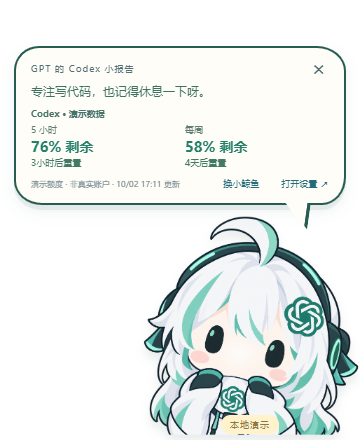
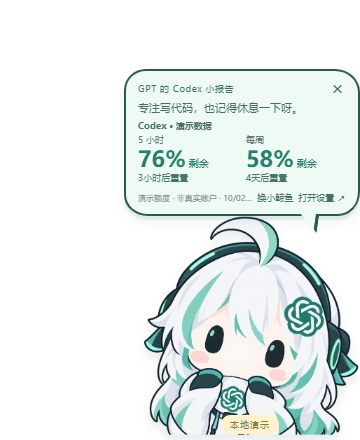
style: compact pet balloons and enlarge quota figures

Changed region(s): [[0.0306, 0.1182, 1.0, 0.5318], [0.0611, 0.0886, 0.9167, 0.1182]]

diff --git a/src/renderer/styles.css b/src/renderer/styles.css
@@ -1,11 +1,11 @@
 :root{font-family:"Microsoft YaHei UI","Microsoft YaHei","Segoe UI",sans-serif;color:#244653;font-synthesis:none;font-weight:400;--blue:#147888;--line:#e1e9e6;--muted:#758c91}
 *{box-sizing:border-box}body{margin:0}button,input,textarea{font:inherit}button,a,input,textarea{touch-action:manipulation}button{cursor:pointer}button:disabled{cursor:wait;opacity:.55}button:focus-visible,a:focus-visible,input:focus-visible,textarea:focus-visible{outline:3px solid #51afc0;outline-offset:3px}button{transition:background .15s,transform .15s}input,textarea{width:100%;border:1px solid #d8e4e1;border-radius:10px;background:#fffefa;padding:12px 14px;color:#244653}input[type=range]{padding:0;accent-color:var(--blue)}input[type=checkbox]{width:19px;height:19px;accent-color:var(--blue)}textarea{resize:vertical;min-height:92px}h1,h2,h3,p{margin:0}h2{font-size:19px;letter-spacing:.5px}h3{font-size:15px}p{line-height:1.8}a{color:inherit}small{display:block}button{border:0}.sr-only{position:absolute;width:1px;height:1px;padding:0;margin:-1px;overflow:hidden;clip:rect(0,0,0,0);white-space:nowrap;border:0}
 .settings-view{background:#f6f5ef;overflow:auto}.settings-shell{min-height:100vh}.sidebar{position:fixed;left:0;top:0;bottom:0;width:214px;background:#e9f0eb;border-right:1px solid #dae5df;padding:34px 23px;display:flex;flex-direction:column}.brand{text-decoration:none;display:flex;align-items:center;gap:10px;font-size:17px;font-weight:700}.brand-mark{background:#186e7c;color:#fff8dd;border-radius:15px;width:41px;height:41px;display:grid;place-items:center;font-size:30px;font-weight:400}.brand small{font-size:10px;font-weight:400;margin-top:6px;letter-spacing:1px;color:#7a9294}.sidebar nav{display:grid;gap:10px;margin-top:53px}.sidebar nav a{text-decoration:none;padding:13px 14px;border-radius:12px;font-size:20px;color:#47707a;display:flex;gap:12px;align-items:center}.sidebar nav a span{font-size:13px}.sidebar nav a:hover,.sidebar nav a:focus-visible{background:#dce9e4}.sidebar-footer{margin-top:auto;color:#6b878d;font-size:11px;line-height:2}.sidebar-footer small{font-size:9px}.settings-main{max-width:1120px;margin-left:214px;padding:44px 48px 26px}.eyebrow{font-size:9px;letter-spacing:2.7px;color:#6a9096;font-weight:600;margin-bottom:11px}header h1{font-size:29px;font-weight:650;letter-spacing:1px}header h1 span{color:#d9b96e;margin-left:12px;font-size:23px}header p{font-size:12px;color:var(--muted);margin-top:11px}header{margin-bottom:30px}.section{scroll-margin-top:24px;margin-bottom:30px}.section-heading{display:flex;align-items:center;justify-content:space-between;gap:12px;margin-bottom:17px}.section-note{font-size:11px;color:#829598}.status-chip{padding:6px 11px;background:#e3eee4;color:#488167;border-radius:20px;font-size:11px}.status-chip[data-status=error]{background:#f9e6db;color:#a66245}.status-chip[data-status=loading]{background:#e0edf1;color:#397486}.status-chip[data-status=unconfigured]{background:#ebeae2;color:#868674}.balance-grid{display:grid;grid-template-columns:1.45fr 1fr;gap:18px}.balance-card{background:#196e7b;color:#f8fcf5;padding:25px 27px 20px;border-radius:19px;position:relative;overflow:hidden;box-shadow:0 9px 24px #16677312}.balance-card:after{content:'≈';position:absolute;right:-4px;top:9px;font-size:153px;color:#ffffff08;pointer-events:none}.card-label{font-size:12px;letter-spacing:.6px}.big-money{font-size:43px;font-weight:650;letter-spacing:-1px;margin:16px 0 22px;font-variant-numeric:tabular-nums}.balance-bottom{display:flex;justify-content:space-between;align-items:center;gap:9px;font-size:9px;color:#bfdcdb}.light-button{border-radius:7px;padding:8px 11px;background:#ffffff1a;color:#f0fffa;white-space:nowrap;font-size:11px}.light-button:hover{background:#ffffff2b}.today-card{background:#f0eadb;border:1px solid #e8e1cf;padding:25px 24px;border-radius:19px}.today-money{font-size:33px;margin:18px 0 13px;font-weight:600;font-variant-numeric:tabular-nums}.today-card>span{font-size:10px;color:#8a8c79}.today-card p{font-size:11px;color:#969382;margin-top:10px}.panel{border:1px solid var(--line);background:#fffef9;border-radius:16px;padding:23px}.key-panel{margin-top:18px}.key-panel p,.pet-preview-row p{color:var(--muted);font-size:11px;margin-top:8px}.key-panel form{display:flex;align-items:center;gap:10px;margin-top:17px}.primary-button{background:#197889;color:white;padding:12px 20px;border-radius:10px;font-size:12px;white-space:nowrap}.primary-button:hover{background:#125f70}.secondary-button{background:#edf4ef;border:1px solid #d7e6dd;color:#397482;border-radius:8px;padding:9px 13px;font-size:11px}.secondary-button:hover{background:#dcece3}.text-button{color:#789094;background:transparent;font-size:11px;padding:9px;white-space:nowrap}.text-button:hover{color:#1c6e7f}.hint{font-size:10px!important;line-height:1.7;color:#8d9b96!important;margin-top:10px!important}.service-message{font-size:11px;line-height:1.8;color:#a36345;margin-top:10px;overflow-wrap:anywhere}.service-message:empty{display:none}.operation-status:empty{display:none}.operation-status{position:sticky;top:10px;z-index:3;background:#e6f2eb;border:1px solid #cce1d7;color:#407562;border-radius:10px;padding:11px 15px;margin:0 0 18px;font-size:12px;box-shadow:0 3px 10px #00000008}.operation-status.error{background:#fff0e7;border-color:#efd6c7;color:#985c40}.demo-banner{background:#f8eac8;color:#89703d;border:1px solid #e9d9b2;border-radius:10px;padding:12px 15px;font-size:12px;margin-bottom:18px}.pet-preview-row{display:flex;align-items:center;gap:24px;padding-bottom:20px}.pet-preview{width:106px;height:106px;flex-shrink:0;background:#edf4ee;border-radius:20px;display:grid;place-items:center}.pet-preview img{max-width:100%;max-height:100%;object-fit:contain}.button-row{display:flex;gap:8px;margin-top:13px}.setting-row{border-top:1px solid #edf0e8;padding:20px 0;display:flex;align-items:center;justify-content:space-between;gap:20px}.setting-row>label{font-size:12px}.setting-row small{color:#8b9b9a;font-size:10px;margin-top:6px}.range-control{display:flex;align-items:center;gap:12px;width:47%;max-width:270px}.range-control output{font-size:11px;min-width:44px;color:#557e83;text-align:right;font-variant-numeric:tabular-nums}.toggle-grid{border-top:1px solid #edf0e8;display:grid;grid-template-columns:1fr 1fr;gap:18px 30px;padding:20px 0 25px}.toggle-label{display:flex;justify-content:space-between;align-items:center;gap:15px;font-size:12px}.field-label{display:block;font-size:12px;margin:4px 0 11px}.field-label span{font-size:10px;color:#8b9b9a;margin-left:9px}.reminder-grid{display:grid;grid-template-columns:1fr 1fr;gap:26px}.save-bar{display:flex;align-items:center;justify-content:space-between;margin:0 0 36px;padding:0 3px;font-size:11px;color:#8a9b97}.table-scroll{overflow-x:auto}table{border-collapse:collapse;width:100%;text-align:left;font-size:12px;white-space:nowrap}th{font-weight:500;color:#8b9c9b;font-size:10px;padding:0 10px 14px}td{border-top:1px solid #edf0e9;padding:15px 10px;font-variant-numeric:tabular-nums}th:not(:first-child),td:not(:first-child){text-align:right}.empty-records{text-align:center!important;color:#91a29f;padding:26px}.statistics-note{border-top:1px solid #e7ece4;margin-top:14px;padding-top:18px;font-size:10px;color:#91a09a}.statistics-note strong{font-size:11px;font-weight:500;color:#6c8587}.statistics-note p{margin-top:7px}.page-footer{text-align:center;font-size:10px;color:#9aaba4;padding:10px 0 5px}.startup-error{background:#fff8ee;border:1px solid #e5d5c4;color:#815b48;padding:20px;border-radius:14px;font-size:13px;max-width:350px}
-.pet-view{background:transparent;overflow:hidden;user-select:none}.pet-view #app{position:relative}.pet-canvas{width:360px;height:440px;position:relative;transform-origin:top left;pointer-events:none}.pet-character{position:absolute;bottom:4px;right:0;width:220px;height:220px;padding:0;border:0;background:transparent;pointer-events:auto;touch-action:none;-webkit-user-drag:none;outline-offset:-20px}.pet-image{width:100%;height:100%;object-fit:contain;pointer-events:none;transform-origin:50% 80%;transition:transform .24s cubic-bezier(.3,1.8,.55,1);filter:drop-shadow(0 7px 5px #1a404219)}.pet-character.pressed .pet-image{transform:scale(.94, .87) translateY(7px)}.pet-canvas.flipped .pet-character{right:auto;left:0}.pet-canvas.flipped .pet-image{transform:scaleX(-1)}.pet-canvas.flipped .pet-character.pressed .pet-image{transform:scale(-.94,.87) translateY(7px)}.pet-bubble{position:absolute;left:14px;right:14px;bottom:235px;max-height:195px;overflow:visible;background:#fffdf8;border:2.5px solid #244653;border-radius:25px 29px 24px 28px / 24px 25px 28px 24px;box-shadow:0 5px 0 #24465314,0 7px 15px #17465312;padding:11px 15px 12px;pointer-events:auto;font-size:12px;user-select:text;z-index:1}.pet-bubble:before,.pet-bubble:after{content:"";position:absolute;top:calc(100% - 2px);right:37px;width:25px;height:25px;clip-path:polygon(0 0,100% 0,100% 100%);pointer-events:none}.pet-bubble:before{background:#244653;transform:translate(2px,2px) rotate(8deg);z-index:0}.pet-bubble:after{background:#fffdf8;transform:translate(-1px,0) rotate(8deg);z-index:1}.pet-bubble>*{position:relative;z-index:2}.pet-canvas.flipped .pet-bubble:before,.pet-canvas.flipped .pet-bubble:after{right:auto;left:37px;transform:scaleX(-1) rotate(8deg)}.pet-bubble[hidden]{display:none}.bubble-top{display:flex;align-items:center;justify-content:space-between;gap:8px}.bubble-label{font-size:9px;color:#526f76;letter-spacing:1px}.bubble-close{background:transparent;font-size:20px;color:#536f75;padding:0 3px;line-height:1}.bubble-message{font-size:12px;color:#315963;margin-top:4px;line-height:1.55;overflow-wrap:anywhere;max-height:47px;overflow:auto}.bubble-balances{display:flex;gap:22px;padding-top:8px;margin-top:7px;font-size:10px;color:#70858a}.bubble-balances strong{font-size:14px;color:#226f7c;margin-left:5px;font-weight:600}.bubble-footer{display:flex;align-items:center;justify-content:space-between;gap:7px;margin-top:7px}.pet-status{font-size:8px;color:#71868b;overflow:hidden;text-overflow:ellipsis;white-space:nowrap}.bubble-settings{font-size:9px;color:#246c79;background:transparent;padding:2px 0;white-space:nowrap}.pet-demo{position:absolute;bottom:2px;left:50%;transform:translateX(-50%);font-size:9px;letter-spacing:1px;background:#fff2cc;color:#8d793e;padding:4px 9px;border-radius:12px;pointer-events:none}
+.pet-view{background:transparent;overflow:hidden;user-select:none}.pet-view #app{position:relative}.pet-canvas{width:360px;height:440px;position:relative;transform-origin:top left;pointer-events:none}.pet-character{position:absolute;bottom:4px;right:0;width:220px;height:220px;padding:0;border:0;background:transparent;pointer-events:auto;touch-action:none;-webkit-user-drag:none;outline-offset:-20px}.pet-image{width:100%;height:100%;object-fit:contain;pointer-events:none;transform-origin:50% 80%;transition:transform .24s cubic-bezier(.3,1.8,.55,1);filter:drop-shadow(0 7px 5px #1a404219)}.pet-character.pressed .pet-image{transform:scale(.94, .87) translateY(7px)}.pet-canvas.flipped .pet-character{right:auto;left:0}.pet-canvas.flipped .pet-image{transform:scaleX(-1)}.pet-canvas.flipped .pet-character.pressed .pet-image{transform:scale(-.94,.87) translateY(7px)} .pet-bubble{--bubble-bg:#edf0ff;--bubble-border:#4b5f9b;--bubble-ink:#384d87;position:absolute;left:auto;right:0;bottom:224px;width:236px;max-height:180px;display:flex;flex-direction:column;overflow:visible;background:var(--bubble-bg);border:2.5px solid var(--bubble-border);border-radius:22px 25px 22px 24px / 21px 23px 24px 21px;box-shadow:0 4px 0 #4b5f9b14,0 6px 12px #344b7c12;padding:9px 12px;pointer-events:auto;font-size:12px;user-select:text;z-index:1}.pet-canvas.flipped .pet-bubble{left:0;right:auto}.pet-bubble:before,.pet-bubble:after{content:"";position:absolute;top:calc(100% - 2px);right:42px;width:18px;height:18px;clip-path:polygon(0 0,100% 0,100% 100%);pointer-events:none}.pet-bubble:before{background:var(--bubble-border);transform:translate(2px,2px) rotate(8deg);z-index:0}.pet-bubble:after{background:var(--bubble-bg);transform:translate(-1px,0) rotate(8deg);z-index:1}.pet-bubble>*{position:relative;z-index:2}.pet-canvas.flipped .pet-bubble:before,.pet-canvas.flipped .pet-bubble:after{right:auto;left:42px;transform:scaleX(-1) rotate(8deg)}.pet-bubble[hidden]{display:none}.bubble-top{display:flex;align-items:center;justify-content:space-between;gap:6px;flex-shrink:0}.bubble-label{font-size:9px;color:var(--bubble-ink);letter-spacing:.5px}.bubble-close{background:transparent;font-size:18px;color:var(--bubble-ink);padding:0 2px;line-height:1}.bubble-message{font-size:11px;color:var(--bubble-ink);margin-top:3px;line-height:1.4;overflow-wrap:anywhere;max-height:31px;overflow:auto;flex-shrink:0}.bubble-balances{display:grid;grid-template-columns:1fr 1fr;gap:8px;padding-top:4px;margin-top:3px;font-size:10px;color:#61719b}.bubble-balances strong{display:block;font-size:22px;line-height:1.3;color:var(--bubble-ink);font-weight:650;font-variant-numeric:tabular-nums}.bubble-footer{display:flex;align-items:center;justify-content:space-between;gap:5px;margin-top:5px;flex-shrink:0}.pet-status{font-size:8px;color:#68779b;overflow:hidden;text-overflow:ellipsis;white-space:nowrap}.bubble-settings{font-size:9px;color:var(--bubble-ink);background:transparent;padding:2px 0;white-space:nowrap}.pet-demo{position:absolute;bottom:2px;left:50%;transform:translateX(-50%);font-size:9px;letter-spacing:1px;background:#fff2cc;color:#8d793e;padding:4px 9px;border-radius:12px;pointer-events:none}
 @media(max-width:820px){.sidebar{width:170px;padding:27px 17px}.brand{font-size:14px;gap:7px}.brand-mark{width:33px;height:33px}.brand small{font-size:9px;letter-spacing:0}.settings-main{margin-left:170px;padding:32px 26px}.balance-grid{gap:12px}.balance-card{padding:22px 20px}.today-card{padding:22px 17px}.big-money{font-size:35px}.balance-bottom{flex-wrap:wrap}.today-money{font-size:29px}.range-control{width:45%}}
 @media(max-width:600px){.sidebar{position:static;width:100%;padding:20px 21px;border-right:0;border-bottom:1px solid #dce5dd}.sidebar nav{display:flex;margin-top:20px;gap:5px;justify-content:space-between}.sidebar nav a{padding:8px 5px;font-size:14px;gap:5px}.sidebar nav a span{font-size:11px}.sidebar-footer{display:none}.settings-main{margin:0;padding:26px 20px}.section-note{font-size:9px}.balance-grid{grid-template-columns:1fr}.balance-bottom{flex-wrap:nowrap}.today-card{padding:20px 22px}.today-money{margin:12px 0}.today-card p{display:none}.key-panel form{flex-wrap:wrap}.key-panel input{flex-basis:100%}.toggle-grid{grid-template-columns:1fr}.reminder-grid{grid-template-columns:1fr;gap:18px}.pet-preview-row{gap:15px}.pet-preview{width:85px;height:85px}.panel{padding:19px}.range-control{width:46%}.save-bar{gap:15px}.save-bar>span{max-width:170px}header h1{font-size:26px}}
 @media(prefers-reduced-motion:reduce){*{transition:none!important}}
 
-.gpt-theme{--blue:#26856f;--line:#daeae1}.gpt-theme .primary-button{background:#26856f}.gpt-theme .brand-mark{background:#26856f}.pet-selector{display:grid;grid-template-columns:1fr 1fr;gap:12px;margin-bottom:24px}.pet-option{display:flex;gap:12px;align-items:center;text-align:left;border:1.5px solid #dce8e0;background:#f7f9f3;border-radius:13px;padding:12px;color:#365f63;font-size:13px}.pet-option img{width:56px;height:56px;object-fit:contain}.pet-option small{margin-top:6px;font-size:10px;font-weight:400;color:#728a84}.pet-option[aria-pressed=true]{background:#e5f4eb;border-color:#408f78;box-shadow:0 0 0 2px #4c9d7b12}.pet-option:hover{background:#ecf5ee}.quota-cards{display:grid;gap:14px}.quota-bucket-name{color:#477269;font-size:12px;margin-bottom:14px;overflow-wrap:anywhere}.quota-windows{display:grid;grid-template-columns:1fr 1fr;gap:18px}.quota-window{background:#edf5ee;border:1px solid #e0eae0;border-radius:12px;padding:16px}.quota-window-title{display:flex;align-items:center;justify-content:space-between;gap:10px;font-size:11px;color:#5f7c71}.quota-window-title strong{color:#24806a;font-size:20px;font-weight:650;font-variant-numeric:tabular-nums}.quota-window progress{width:100%;height:7px;border:0;display:block;margin:13px 0 10px;accent-color:#51a98a;border-radius:8px;overflow:hidden;background:#d7e6da}.quota-window progress::-webkit-progress-bar{background:#d7e6da}.quota-window progress::-webkit-progress-value{background:#51a98a}.quota-countdown{font-size:11px;color:#427a66}.quota-reset,.quota-credits{font-size:10px;color:#81938a;margin-top:4px}.quota-empty{font-size:12px;color:#718b80}.quota-stale .quota-window-title strong{color:#8a866b}.codex-actions{display:flex;gap:10px;align-items:center;justify-content:space-between;margin-top:15px;flex-wrap:wrap}.codex-actions .hint{margin-top:0!important}.codex-actions .button-row{margin-top:0}.status-chip[data-status=unavailable],.status-chip[data-status=idle]{background:#ebeae2;color:#868674}.gpt-theme .pet-bubble{border-color:#285c50;box-shadow:0 5px 0 #285c5014,0 7px 15px #17465312}.gpt-theme .pet-bubble:before{background:#285c50}.gpt-theme .bubble-message{color:#3f7361}.bubble-quota{margin-top:6px;max-height:97px;overflow:auto;scrollbar-width:thin}.bubble-quota .quota-bucket-name{font-size:9px;margin-bottom:5px}.bubble-quota .quota-windows{gap:10px}.bubble-quota .quota-window{padding:0;border:0;border-radius:0;background:transparent}.bubble-quota .quota-window-title{display:block;font-size:9px}.bubble-quota .quota-window-title strong{display:block;font-size:14px;margin-top:3px}.bubble-quota .quota-countdown{font-size:9px;line-height:1.5}.bubble-quota .quota-empty{font-size:10px}.gpt-theme .pet-status{max-width:170px}.bubble-footer .pet-status{min-width:0;flex:1}.pet-bubble [hidden]{display:none}.gpt-theme .pet-character .pet-image{filter:drop-shadow(0 7px 5px #1a403819)}
+.gpt-theme{--blue:#26856f;--line:#daeae1}.gpt-theme .primary-button{background:#26856f}.gpt-theme .brand-mark{background:#26856f}.pet-selector{display:grid;grid-template-columns:1fr 1fr;gap:12px;margin-bottom:24px}.pet-option{display:flex;gap:12px;align-items:center;text-align:left;border:1.5px solid #dce8e0;background:#f7f9f3;border-radius:13px;padding:12px;color:#365f63;font-size:13px}.pet-option img{width:56px;height:56px;object-fit:contain}.pet-option small{margin-top:6px;font-size:10px;font-weight:400;color:#728a84}.pet-option[aria-pressed=true]{background:#e5f4eb;border-color:#408f78;box-shadow:0 0 0 2px #4c9d7b12}.pet-option:hover{background:#ecf5ee}.quota-cards{display:grid;gap:14px}.quota-bucket-name{color:#477269;font-size:12px;margin-bottom:14px;overflow-wrap:anywhere}.quota-windows{display:grid;grid-template-columns:1fr 1fr;gap:18px}.quota-window{background:#edf5ee;border:1px solid #e0eae0;border-radius:12px;padding:16px}.quota-window-title{display:flex;align-items:center;justify-content:space-between;gap:10px;font-size:11px;color:#5f7c71}.quota-window-title strong{color:#24806a;font-size:20px;font-weight:650;font-variant-numeric:tabular-nums}.quota-window progress{width:100%;height:7px;border:0;display:block;margin:13px 0 10px;accent-color:#51a98a;border-radius:8px;overflow:hidden;background:#d7e6da}.quota-window progress::-webkit-progress-bar{background:#d7e6da}.quota-window progress::-webkit-progress-value{background:#51a98a}.quota-countdown{font-size:11px;color:#427a66}.quota-reset,.quota-credits{font-size:10px;color:#81938a;margin-top:4px}.quota-empty{font-size:12px;color:#718b80}.quota-stale .quota-window-title strong{color:#8a866b}.codex-actions{display:flex;gap:10px;align-items:center;justify-content:space-between;margin-top:15px;flex-wrap:wrap}.codex-actions .hint{margin-top:0!important}.codex-actions .button-row{margin-top:0}.status-chip[data-status=unavailable],.status-chip[data-status=idle]{background:#ebeae2;color:#868674}.gpt-theme .pet-bubble{--bubble-bg:#effaf4;--bubble-border:#285c50;--bubble-ink:#3f7361;box-shadow:0 4px 0 #285c5014,0 6px 12px #17465312}.gpt-theme .pet-status{color:#71868b}.bubble-quota{margin-top:4px;min-height:0;max-height:97px;overflow:auto;scrollbar-width:thin;scrollbar-color:#90bda9 transparent;flex-shrink:1}.bubble-quota .quota-bucket+.quota-bucket{margin-top:6px}.bubble-quota .quota-bucket-name{font-size:9px;margin-bottom:3px}.bubble-quota .quota-windows{grid-template-columns:repeat(2,minmax(0,1fr));gap:8px}.bubble-quota .quota-window{padding:0;border:0;border-radius:0;background:transparent}.bubble-quota .quota-window-title{display:block;font-size:9px}.bubble-quota .quota-window-title strong{display:block;font-size:22px;line-height:1.2;margin-top:1px;font-variant-numeric:tabular-nums;white-space:nowrap}.bubble-quota .quota-remaining-suffix{font-size:10px;font-weight:400;margin-left:3px}.bubble-quota .quota-countdown{font-size:9px;line-height:1.4;overflow-wrap:anywhere}.bubble-quota .quota-empty{font-size:10px}.gpt-theme .pet-status{max-width:170px}.bubble-footer .pet-status{min-width:0;flex:1}.pet-bubble [hidden]{display:none}.gpt-theme .pet-character .pet-image{filter:drop-shadow(0 7px 5px #1a403819)}
 @media(max-width:600px){.pet-selector{gap:8px}.pet-option{padding:9px;gap:6px;font-size:11px}.pet-option img{width:39px;height:48px}.pet-option small{font-size:9px}.quota-windows{grid-template-columns:1fr}.bubble-quota .quota-windows{grid-template-columns:1fr 1fr}.codex-actions .button-row{flex-wrap:wrap}.sidebar nav{flex-wrap:wrap}}
-.bubble-switch{font-size:9px;color:#246c79;background:transparent;padding:2px 0;white-space:nowrap}
+.bubble-switch{font-size:9px;color:var(--bubble-ink);background:transparent;padding:2px 0;white-space:nowrap}

diff --git a/src/renderer/quota.ts b/src/renderer/quota.ts
@@ -54,7 +54,8 @@ export function renderQuota(root: HTMLElement, quota: CodexQuotaState, compact: 
       const title = add(row, 'div', 'quota-window-title');
       add(title, 'span', '', windowLabel(quotaWindow.windowMinutes));
       const remaining = Number.isFinite(quotaWindow.remainingPercent) ? Math.max(0, Math.min(100, quotaWindow.remainingPercent)) : null;
-      add(title, 'strong', '', remaining == null ? '未知' : `${Number(remaining.toFixed(1))}% 剩余`);
+      const remainingLabel = add(title, 'strong', '', remaining == null ? '未知' : `${Number(remaining.toFixed(1))}%${compact ? '' : ' 剩余'}`);
+      if (compact && remaining !== null) add(remainingLabel, 'span', 'quota-remaining-suffix', '剩余');
       if (!compact && remaining !== null) {
         const bar = document.createElement('progress'); bar.max = 100; bar.value = remaining;
         bar.setAttribute('aria-label', `${windowLabel(quotaWindow.windowMinutes)}剩余额度`); row.append(bar);

diff --git a/src/main/main.ts b/src/main/main.ts
@@ -215,7 +215,9 @@ function updateHitRegion(): void {
   const x = (p.x - b.x) / s, y = (p.y - b.y) / s;
   // The visible pet is anchored to the snapped side; blank space passes through.
   const inPet = y >= 216 && y <= 440 && (flipped ? x >= 0 && x <= 220 : x >= 140 && x <= 360);
-  const inBubble = bubbleVisible && x >= 0 && x <= 360 && y >= 0 && y < 230;
+  // Match the compact balloon's 236 × 180 maximum box and its short tail.
+  const bubbleLeft = flipped ? 0 : 124;
+  const inBubble = bubbleVisible && x >= bubbleLeft && x <= bubbleLeft + 236 && y >= 36 && y < 236;
   petWindow.setIgnoreMouseEvents(!(inPet || inBubble), { forward: true });
 }
 

diff --git a/src/main/services/codex-quota.ts b/src/main/services/codex-quota.ts
@@ -128,7 +128,7 @@ export function requestCodexQuota(executable: string, cwd: string, signal: Abort
         else { complete(new Error('invalid-protocol')); return; }
       }
     });
-    send({ id: 1, method: 'initialize', params: { clientInfo: { name: 'desktopplay', title: 'DesktopPlay', version: '0.2.0' }, capabilities: { experimentalApi: false } } });
+    send({ id: 1, method: 'initialize', params: { clientInfo: { name: 'desktopplay', title: 'DesktopPlay', version: '0.2.1' }, capabilities: { experimentalApi: false } } });
   });
 }
 
